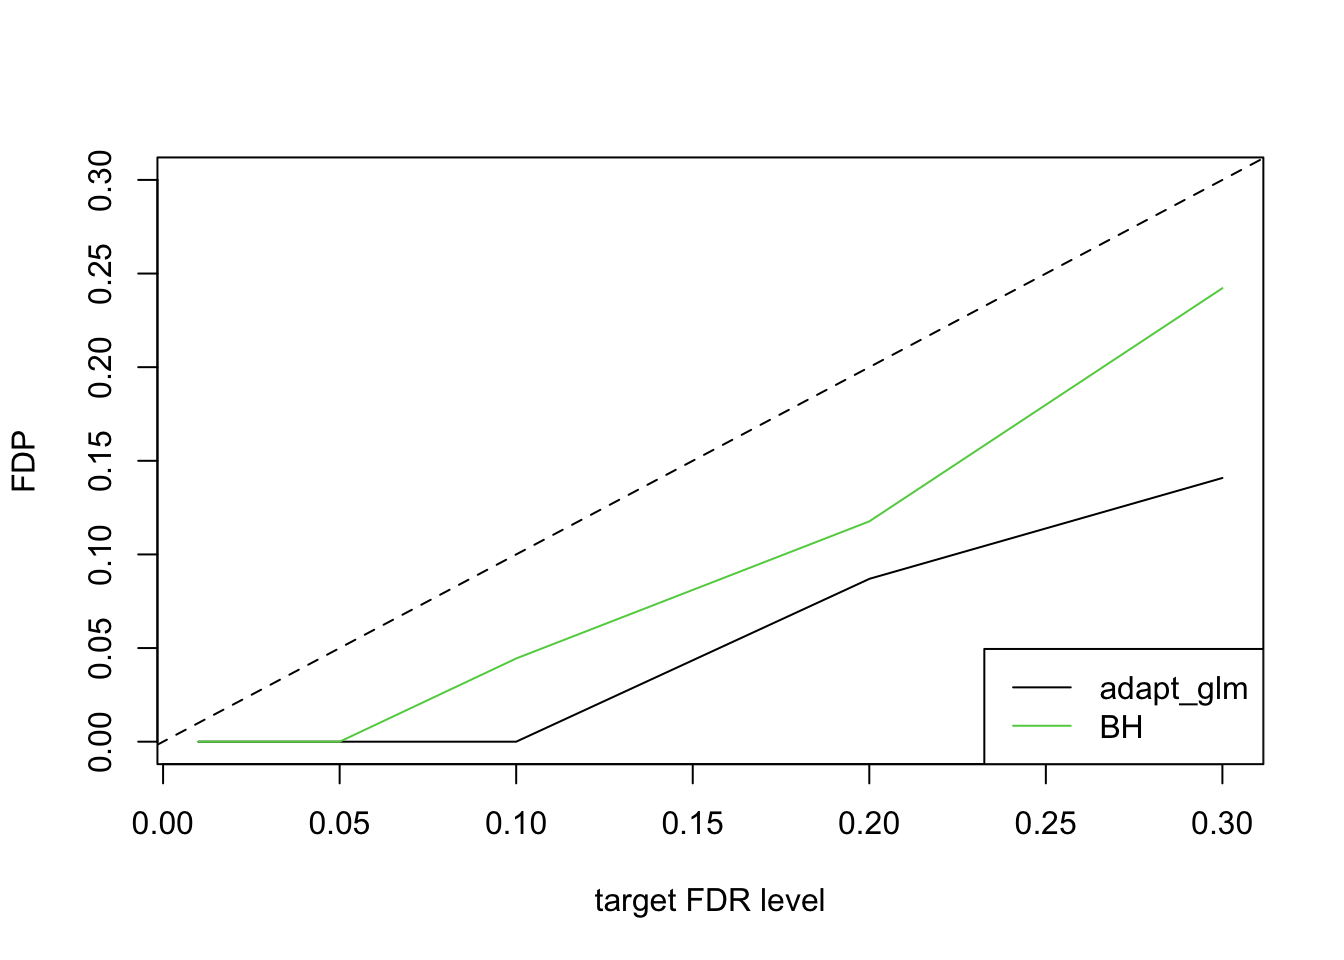
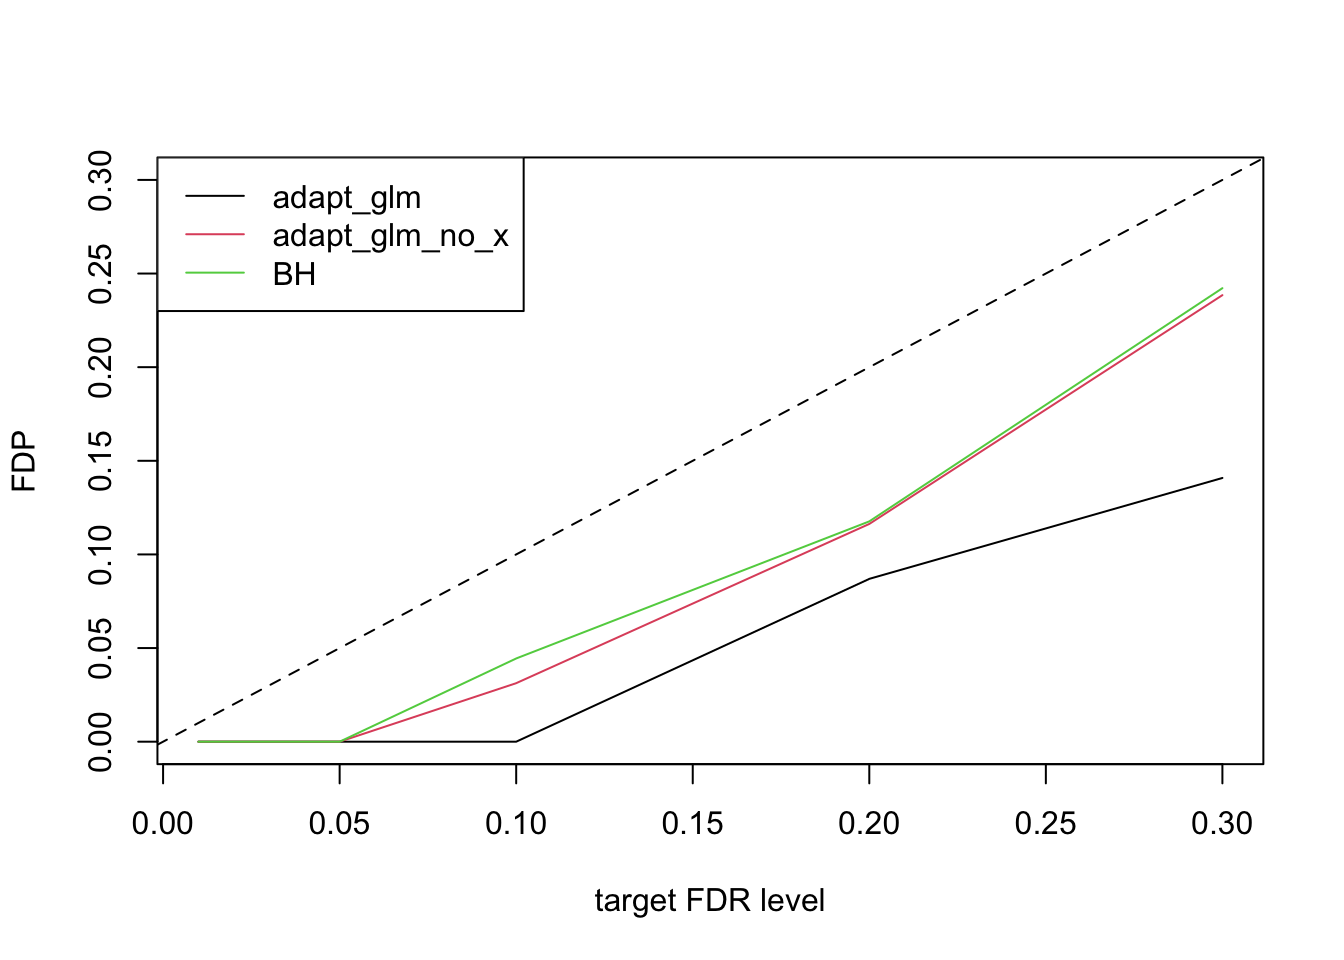
Build site.

diff --git a/docs/adapt.html b/docs/adapt.html
@@ -515,16 +515,16 @@ This reproducible <a href="http://rmarkdown.rstudio.com">R Markdown</a> analysis
 <div class="panel panel-default">
 <div class="panel-heading">
 <p class="panel-title">
-<a data-toggle="collapse" data-parent="#workflowr-checks" href="#strongRepositoryversionstrongahrefhttpsgithubcomDongyueXiedeartreee9fdfe91101d7f31d98c3b53ac0a688fccb7fa11targetblanke9fdfe9a"> <span class="glyphicon glyphicon-ok text-success" aria-hidden="true"></span> <strong>Repository version:</strong> <a href="https://github.com/DongyueXie/dear/tree/e9fdfe91101d7f31d98c3b53ac0a688fccb7fa11" target="_blank">e9fdfe9</a> </a>
+<a data-toggle="collapse" data-parent="#workflowr-checks" href="#strongRepositoryversionstrongahrefhttpsgithubcomDongyueXiedeartree59b3d5e944bebfbd94968bc9c07ebe21eaf6986ftargetblank59b3d5ea"> <span class="glyphicon glyphicon-ok text-success" aria-hidden="true"></span> <strong>Repository version:</strong> <a href="https://github.com/DongyueXie/dear/tree/59b3d5e944bebfbd94968bc9c07ebe21eaf6986f" target="_blank">59b3d5e</a> </a>
 </p>
 </div>
[2 lines of base64/hex data omitted]
 <div class="panel-body">
 <p>
 Great! You are using Git for version control. Tracking code development and connecting the code version to the results is critical for reproducibility.
 </p>
 <p>
-The results in this page were generated with repository version <a href="https://github.com/DongyueXie/dear/tree/e9fdfe91101d7f31d98c3b53ac0a688fccb7fa11" target="_blank">e9fdfe9</a>. See the <em>Past versions</em> tab to see a history of the changes made to the R Markdown and HTML files.
+The results in this page were generated with repository version <a href="https://github.com/DongyueXie/dear/tree/59b3d5e944bebfbd94968bc9c07ebe21eaf6986f" target="_blank">59b3d5e</a>. See the <em>Past versions</em> tab to see a history of the changes made to the R Markdown and HTML files.
 </p>
 <p>
 Note that you need to be careful to ensure that all relevant files for the analysis have been committed to Git prior to generating the results (you can use <code>wflow_publish</code> or <code>wflow_git_commit</code>). workflowr only checks the R Markdown file, but you know if there are other scripts or data files that it depends on. Below is the status of the Git repository when the results were generated:
@@ -605,6 +605,40 @@ Message
 </tr>
 </thead>
 <tbody>
+<tr>
+<td>
+Rmd
+</td>
+<td>
+<a href="https://github.com/DongyueXie/dear/blob/59b3d5e944bebfbd94968bc9c07ebe21eaf6986f/analysis/adapt.Rmd" target="_blank">59b3d5e</a>
+</td>
+<td>
+Dongyue Xie
+</td>
+<td>
+2020-11-09
+</td>
+<td>
+wflow_publish(“analysis/adapt.Rmd”)
+</td>
+</tr>
+<tr>
+<td>
+html
+</td>
+<td>
+<a href="https://rawcdn.githack.com/DongyueXie/dear/c77158315f5ed5ba1c84861c433b4c2b8124b7e8/docs/adapt.html" target="_blank">c771583</a>
+</td>
+<td>
+Dongyue Xie
+</td>
+<td>
+2020-11-09
+</td>
+<td>
+Build site.
+</td>
+</tr>
 <tr>
 <td>
 Rmd
@@ -723,29 +757,108 @@ lines(alphas,summary_bh$FDP,col=3)
 abline(a=0,b=1,lty=2)
 legend(&#39;bottomright&#39;,c(&#39;adapt_glm&#39;,&#39;adapt_gam&#39;,&#39;BH&#39;),lty=c(1,1,1),col=c(1,2,3))</code></pre>
 <p><img src="figure/adapt.Rmd/unnamed-chunk-2-1.png" width="672" style="display: block; margin: auto;" /></p>
+<p>
+<button type="button" class="btn btn-default btn-xs btn-workflowr btn-workflowr-fig" data-toggle="collapse" data-target="#fig-unnamed-chunk-2-1">
+Past versions of unnamed-chunk-2-1.png
+</button>
+</p>
+<div id="fig-unnamed-chunk-2-1" class="collapse">
+<div class="table-responsive">
+<table class="table table-condensed table-hover">
+<thead>
+<tr>
+<th>
+Version
+</th>
+<th>
+Author
+</th>
+<th>
+Date
+</th>
+</tr>
+</thead>
+<tbody>
+<tr>
+<td>
+<a href="https://github.com/DongyueXie/dear/blob/c77158315f5ed5ba1c84861c433b4c2b8124b7e8/docs/figure/adapt.Rmd/unnamed-chunk-2-1.png" target="_blank">c771583</a>
+</td>
+<td>
+Dongyue Xie
+</td>
+<td>
+2020-11-09
+</td>
+</tr>
+</tbody>
+</table>
+</div>
+</div>
 <pre class="r"><code>plot(alphas,summary_res_glm$power,type=&#39;l&#39;,ylim=c(0,1),ylab=&#39;power&#39;,xlab=&#39;target FDR level&#39;)
 lines(alphas,summary_res_gam$power,col=2)
 lines(alphas,summary_bh$power,col=3)
 legend(&#39;right&#39;,c(&#39;adapt_glm&#39;,&#39;adapt_gam&#39;,&#39;BH&#39;),lty=c(1,1,1),col=c(1,2,3))</code></pre>
 <p><img src="figure/adapt.Rmd/unnamed-chunk-2-2.png" width="672" style="display: block; margin: auto;" /></p>
+<p>
+<button type="button" class="btn btn-default btn-xs btn-workflowr btn-workflowr-fig" data-toggle="collapse" data-target="#fig-unnamed-chunk-2-2">
+Past versions of unnamed-chunk-2-2.png
+</button>
+</p>
+<div id="fig-unnamed-chunk-2-2" class="collapse">
+<div class="table-responsive">
+<table class="table table-condensed table-hover">
+<thead>
+<tr>
+<th>
+Version
+</th>
+<th>
+Author
+</th>
+<th>
+Date
+</th>
+</tr>
+</thead>
+<tbody>
+<tr>
+<td>
+<a href="https://github.com/DongyueXie/dear/blob/c77158315f5ed5ba1c84861c433b4c2b8124b7e8/docs/figure/adapt.Rmd/unnamed-chunk-2-2.png" target="_blank">c771583</a>
+</td>
+<td>
+Dongyue Xie
+</td>
+<td>
+2020-11-09
+</td>
+</tr>
+</tbody>
+</table>
+</div>
+</div>
 <p>random generate <span class="math inline">\(H\)</span>.</p>
 <pre class="r"><code>set.seed(12345)
 x1 &lt;- seq(-100, 100, length.out = 50)
 x2 &lt;- seq(-100, 100, length.out = 50)
 x &lt;- expand.grid(x1, x2)
+xx = data.frame(x1 = rep(1,2500),x2 = rep(1,2500))
 colnames(x) &lt;- c(&quot;x1&quot;, &quot;x2&quot;)
 #pi_formula &lt;- mu_formula &lt;- &quot;s(x1, x2)&quot;
 #alphas &lt;- seq(0.01, 0.23, 0.04)
 alphas = c(0.01,0.05,0.1,0.2,0.3)
 ## Case 1: a circle in the center
 #H0 &lt;- apply(x, 1, function(coord){sum(coord^2) &lt; 900})
+n &lt;- nrow(x)
 H0 = rbinom(n,1,0.1)
 mu &lt;- ifelse(H0, 2, 0)
 z &lt;- rnorm(n) + mu
 pvals &lt;- 1 - pnorm(z)
 res &lt;- try(adapt_glm(x, pvals,pi_formulas = &quot;x1 + x2&quot;,
                       mu_formulas = &quot;x1 + x2&quot;,alphas = alphas,verbose=list(print=F,fit=F,ms=F)))
+res_same &lt;- try(adapt_glm(xx, pvals,pi_formulas = &quot;x1 + x2&quot;,
+                      mu_formulas = &quot;x1 + x2&quot;,alphas = alphas,verbose=list(print=F,fit=F,ms=F)))
 summary_res_glm = summary_adapt(res,H0,pvals)
+summary_res_same_glm = summary_adapt(res_same,H0,pvals)
 summary_bh = summary_BH(pvals,H0,alphas)
 print(cbind(alphas,summary_res_glm))</code></pre>
 <pre><code>  alphas nrej        FDP     power
@@ -754,6 +867,13 @@ print(cbind(alphas,summary_res_glm))</code></pre>
 3   0.10    0 0.00000000 0.0000000
 4   0.20   46 0.08695652 0.1735537
 5   0.30   71 0.14084507 0.2520661</code></pre>
+<pre class="r"><code>print(cbind(alphas,summary_res_same_glm))</code></pre>
+<pre><code>  alphas nrej       FDP     power
+1   0.01    0 0.0000000 0.0000000
+2   0.05    0 0.0000000 0.0000000
+3   0.10   32 0.0312500 0.1280992
+4   0.20   86 0.1162791 0.3140496
+5   0.30  130 0.2384615 0.4090909</code></pre>
 <pre class="r"><code>#print(cbind(alphas,summary_res_gam))
 print(cbind(alphas,summary_bh))</code></pre>
 <pre><code>  alphas nrej        FDP      power
@@ -763,16 +883,90 @@ print(cbind(alphas,summary_bh))</code></pre>
 4   0.20   85 0.11764706 0.30991736
 5   0.30  128 0.24218750 0.40082645</code></pre>
 <pre class="r"><code>plot(alphas,summary_res_glm$FDP,type=&#39;l&#39;,ylim=c(0,0.3),ylab=&#39;FDP&#39;,xlab=&#39;target FDR level&#39;)
-#lines(alphas,summary_res_gam$FDP,col=2)
+lines(alphas,summary_res_same_glm$FDP,col=2)
 lines(alphas,summary_bh$FDP,col=3)
 abline(a=0,b=1,lty=2)
-legend(&#39;bottomright&#39;,c(&#39;adapt_glm&#39;,&#39;BH&#39;),lty=c(1,1),col=c(1,3))</code></pre>
+legend(&#39;topleft&#39;,c(&#39;adapt_glm&#39;,&#39;adapt_glm_no_x&#39;,&#39;BH&#39;),lty=c(1,1,1),col=c(1,2,3))</code></pre>
 <p><img src="figure/adapt.Rmd/unnamed-chunk-3-1.png" width="672" style="display: block; margin: auto;" /></p>
+<p>
+<button type="button" class="btn btn-default btn-xs btn-workflowr btn-workflowr-fig" data-toggle="collapse" data-target="#fig-unnamed-chunk-3-1">
+Past versions of unnamed-chunk-3-1.png
+</button>
+</p>
+<div id="fig-unnamed-chunk-3-1" class="collapse">
+<div class="table-responsive">
+<table class="table table-condensed table-hover">
+<thead>
+<tr>
+<th>
+Version
+</th>
+<th>
+Author
+</th>
+<th>
+Date
+</th>
+</tr>
+</thead>
+<tbody>
+<tr>
+<td>
+<a href="https://github.com/DongyueXie/dear/blob/c77158315f5ed5ba1c84861c433b4c2b8124b7e8/docs/figure/adapt.Rmd/unnamed-chunk-3-1.png" target="_blank">c771583</a>
+</td>
+<td>
+Dongyue Xie
+</td>
+<td>
+2020-11-09
+</td>
+</tr>
+</tbody>
+</table>
+</div>
+</div>
 <pre class="r"><code>plot(alphas,summary_res_glm$power,type=&#39;l&#39;,ylim=c(0,1),ylab=&#39;power&#39;,xlab=&#39;target FDR level&#39;)
-#lines(alphas,summary_res_gam$power,col=2)
+lines(alphas,summary_res_same_glm$power,col=2)
 lines(alphas,summary_bh$power,col=3)
-legend(&#39;topright&#39;,c(&#39;adapt_glm&#39;,&#39;BH&#39;),lty=c(1,1),col=c(1,3))</code></pre>
+legend(&#39;topleft&#39;,c(&#39;adapt_glm&#39;,&#39;adapt_glm_no_x&#39;,&#39;BH&#39;),lty=c(1,1,1),col=c(1,2,3))</code></pre>
 <p><img src="figure/adapt.Rmd/unnamed-chunk-3-2.png" width="672" style="display: block; margin: auto;" /></p>
+<p>
+<button type="button" class="btn btn-default btn-xs btn-workflowr btn-workflowr-fig" data-toggle="collapse" data-target="#fig-unnamed-chunk-3-2">
+Past versions of unnamed-chunk-3-2.png
+</button>
+</p>
+<div id="fig-unnamed-chunk-3-2" class="collapse">
+<div class="table-responsive">
+<table class="table table-condensed table-hover">
+<thead>
+<tr>
+<th>
+Version
+</th>
+<th>
+Author
+</th>
+<th>
+Date
+</th>
+</tr>
+</thead>
+<tbody>
+<tr>
+<td>
+<a href="https://github.com/DongyueXie/dear/blob/c77158315f5ed5ba1c84861c433b4c2b8124b7e8/docs/figure/adapt.Rmd/unnamed-chunk-3-2.png" target="_blank">c771583</a>
+</td>
+<td>
+Dongyue Xie
+</td>
+<td>
+2020-11-09
+</td>
+</tr>
+</tbody>
+</table>
+</div>
+</div>
 <br>
 <p>
 <button type="button" class="btn btn-default btn-workflowr btn-workflowr-sessioninfo" data-toggle="collapse" data-target="#workflowr-sessioninfo" style="display: block;">
